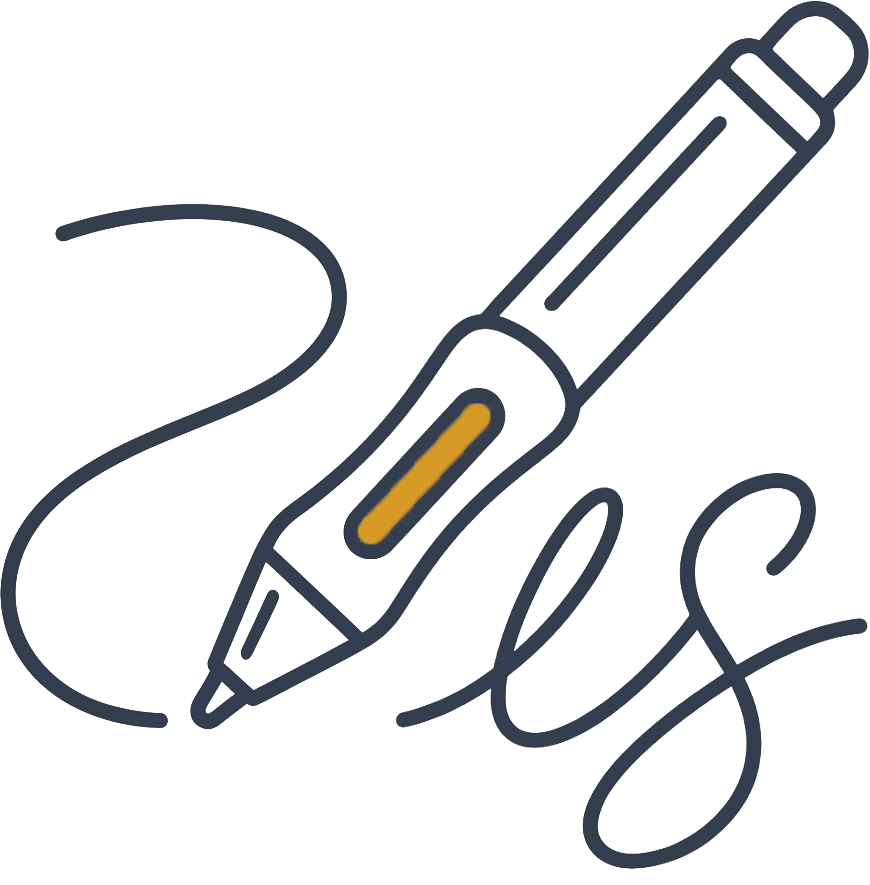
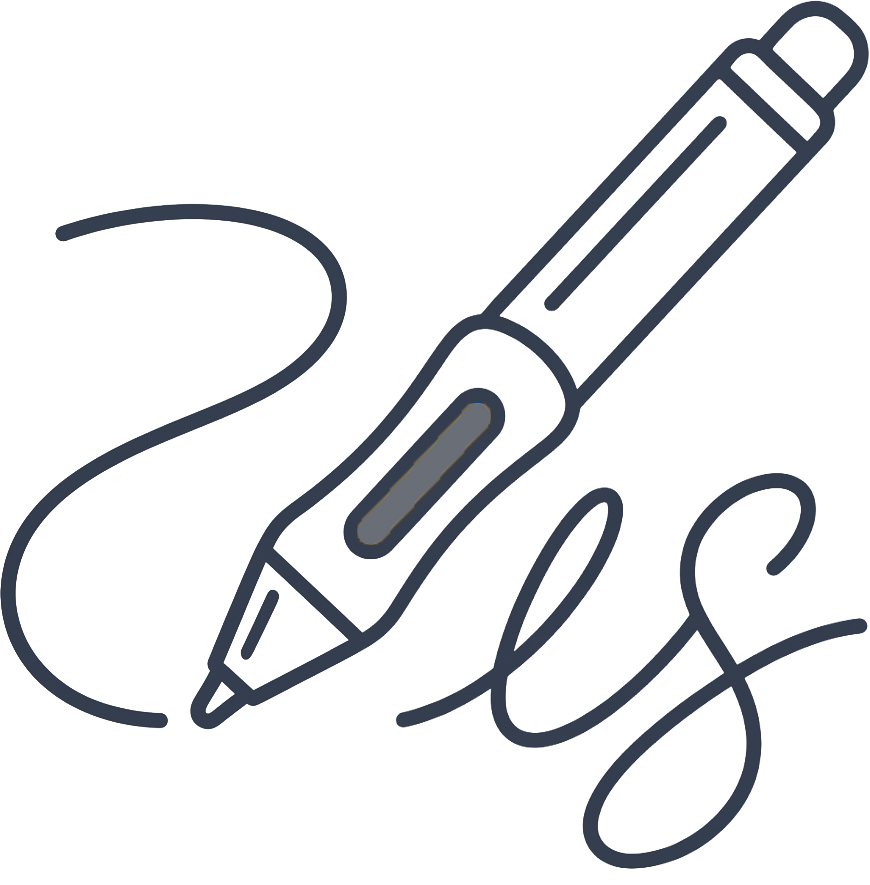
colors

Changed region(s): [[0.4034, 0.4576, 0.5586, 0.6102]]

diff --git a/vocab_clicker.css b/vocab_clicker.css
@@ -6,6 +6,8 @@
   --line: #ddd6c8;
   --accent: #c45c26;
   --accent-soft: #f3e0d4;
+  --dict: #c45c26;
+  --dict-soft: #f3e0d4;
   --kanji: #3f5d6e;
   --kanji-soft: #dde6ea;
   --sentence: #6b4f7a;
@@ -14,8 +16,8 @@
   --thes-soft: #d7e8e6;
   --jiten: #8c2f39;
   --jiten-soft: #f1dfe0;
-  --handwriting: #8a5a2e;
-  --handwriting-soft: #ede1d2;
+  --handwriting: #6b7078; /* 入力方法なので調べ方タブとは別のグレー */
+  --handwriting-soft: #e6e7ea;
   --selected: #2f6f4e;
   --selected-soft: #dceee4;
   --danger: #a33;
@@ -453,8 +455,8 @@ button:disabled {
 .lookup-box[data-ui-tab="handwriting"] {
   --accent: var(--handwriting);
   --accent-soft: var(--handwriting-soft);
-  background: #f7f3ee;
-  border-color: #ddd0c0;
+  background: #f3f3f2;
+  border-color: #d2d4d8;
 }
 
 @keyframes lookup-pulse {
@@ -504,8 +506,8 @@ button:disabled {
 }
 
 .helper-mode[data-mode="dict"].active {
-  background: var(--accent-soft);
-  border-color: var(--accent);
+  background: var(--dict-soft);
+  border-color: var(--dict);
 }
 
 .helper-mode[data-mode="kanji"].active {
@@ -533,7 +535,7 @@ body.dragging-word .helper-mode {
 }
 
 body.dragging-word .helper-mode[data-mode="dict"] {
-  border-color: var(--accent);
+  border-color: var(--dict);
 }
 
 body.dragging-word .helper-mode[data-mode="kanji"] {
@@ -558,8 +560,8 @@ body.dragging-word .helper-mode[data-mode="jiten"] {
 }
 
 .helper-mode[data-mode="dict"].drop-target {
-  background: var(--accent);
-  border-color: var(--accent);
+  background: var(--dict);
+  border-color: var(--dict);
 }
 
 .helper-mode[data-mode="kanji"].drop-target {
@@ -1080,6 +1082,29 @@ body.dragging-word .helper-mode[data-mode="jiten"] {
 .handwriting-candidate:focus-visible {
   background: var(--accent);
   color: #fff;
+}
+
+/* 手書き候補チップは、調べる先のタブ（data-mode）の色にする。
+   手書きパッドを開いている間 --accent は手書きの茶色に上書きされるので、チップ側で上書きし直す。 */
+.lookup-box[data-mode="dict"] .handwriting-candidate {
+  --accent: var(--dict);
+  --accent-soft: var(--dict-soft);
+}
+.lookup-box[data-mode="kanji"] .handwriting-candidate {
+  --accent: var(--kanji);
+  --accent-soft: var(--kanji-soft);
+}
+.lookup-box[data-mode="sentence"] .handwriting-candidate {
+  --accent: var(--sentence);
+  --accent-soft: var(--sentence-soft);
+}
+.lookup-box[data-mode="thes"] .handwriting-candidate {
+  --accent: var(--thes);
+  --accent-soft: var(--thes-soft);
+}
+.lookup-box[data-mode="jiten"] .handwriting-candidate {
+  --accent: var(--jiten);
+  --accent-soft: var(--jiten-soft);
 }
 
 .handwriting-status {

diff --git a/vocab_clicker.js b/vocab_clicker.js
@@ -1282,7 +1282,8 @@ function renderHelperModes() {
   lookupBox.dataset.mode = helperMode;
   if (handwritingOpen) lookupBox.dataset.uiTab = HANDWRITING_TAB;
   else delete lookupBox.dataset.uiTab;
-  const activeTab = handwritingOpen ? HANDWRITING_TAB : helperMode;
+  // 手書きは入力方法なので、開いている間も選択中の調べ方タブを強調したままにする
+  const activeTab = helperMode;
   for (const btn of helperModes.querySelectorAll(".helper-mode")) {
     const active = btn.dataset.mode === activeTab;
     btn.classList.toggle("active", active);
@@ -1461,13 +1462,7 @@ function setHelperMode(mode) {
     return;
   }
   if (!HELPER_MODES.includes(mode)) return;
-  if (handwritingOpen) {
-    handwritingOpen = false;
-    if (mode === helperMode) {
-      renderHelperModes();
-      return;
-    }
-  }
+  // 手書きパッドは開いたまま、調べ方だけ切り替える（候補は選択中のタブで調べる）
   if (mode === helperMode) return;
   helperMode = mode;
   renderHelperModes();
@@ -1942,7 +1937,10 @@ helperInput.addEventListener("keydown", (e) => {
 });
 
 for (const btn of helperModes.querySelectorAll(".helper-mode")) {
-  btn.addEventListener("click", () => setHelperMode(btn.dataset.mode));
+  btn.addEventListener("click", () => {
+    setHelperMode(btn.dataset.mode);
+    if (handwritingOpen) renderHandwritingDraft(); // 候補のツールチップを選択中のタブに合わせる
+  });
   if (HELPER_MODES.includes(btn.dataset.mode)) wireDropZone(btn, btn.dataset.mode);
 }
 // 手書きは「調べ方」ではなく入力方法: 入力欄の左のトグルで開閉
@@ -2091,15 +2089,13 @@ function clearHandwriting() {
   setHandwritingStatus("");
 }
 
-// 手書き結果の振り分け（クライアント側のみ・API不要）:
-// 漢字1文字だけ → 漢字辞典 (jiten) / それ以外（2文字以上、送り仮名つき、かなのみ）→ 通常の辞書 (dict)
-function handwritingLookupMode(text) {
-  const chars = Array.from(String(text).trim());
-  return chars.length === 1 && /[㐀-鿿豈-﫿]/.test(chars[0]) ? "jiten" : "dict";
+// 手書き結果は、いま選んでいる調べ方タブ（辞書・例文・漢字辞典・類義語・漢字表記）でそのまま調べる。
+function handwritingLookupMode() {
+  return helperMode;
 }
 
-function handwritingLookupLabel(text) {
-  return handwritingLookupMode(text) === "jiten" ? "漢字辞典" : "辞書";
+function handwritingLookupLabel() {
+  return HELPER_MODE_LABELS[helperMode] || "辞書";
 }
 
 function chooseHandwritingCandidate(text) {

diff --git a/lookup.html b/lookup.html
@@ -114,7 +114,7 @@
       <span><kbd>例文の漢字</kbd>クリックで辞書へ</span>
       <span><kbd>類義語</kbd>クリックでその語を調べる</span>
       <span><kbd>漢字辞典</kbd>入力の漢字を1字ずつ（音読み・訓読み・意味・よく使う言葉）。言葉をクリックで辞書へ</span>
-      <span><kbd>手書き</kbd>ペンで書いて候補をクリック → 辞書</span>
+      <span><kbd>手書き</kbd>ペンで書いて候補をクリック → 選択中のタブ（辞書・例文・漢字辞典など）で調べる。パッドを開いたままタブを切り替えられます</span>
       <span><kbd>↶ / Ctrl+Z</kbd>最後の一画を取り消す（直近5画まで）</span>
       <span><kbd>＋ 追加</kbd>オンにすると候補が下書きにたまり、画面がクリアされます。最後に「調べる」</span>
       <span><kbd>🎓 小6モード</kbd>説明・意味・例文を小学6年生向けのやさしい言葉に</span>

diff --git a/vocab_clicker.html b/vocab_clicker.html
@@ -141,7 +141,7 @@
       <span><kbd>右クリック</kbd>例文</span>
       <span><kbd>選択</kbd>調べる</span>
       <span><kbd>ドラッグ</kbd>辞書・漢字表記・例文・類義語へ</span>
-      <span><kbd>手書き</kbd>ペンで書いて候補をクリック → 辞書</span>
+      <span><kbd>手書き</kbd>ペンで書いて候補をクリック → 選択中のタブ（辞書・例文・漢字辞典など）で調べる。パッドを開いたままタブを切り替えられます</span>
       <span><kbd>↶ / Ctrl+Z</kbd>最後の一画を取り消す（直近5画まで）</span>
       <span><kbd>＋ 追加</kbd>オンにすると候補が下書きにたまり、画面がクリアされます。最後に「調べる」</span>
       <span><kbd>🎓 小6モード</kbd>説明・意味・例文を小学6年生向けのやさしい言葉に</span>
